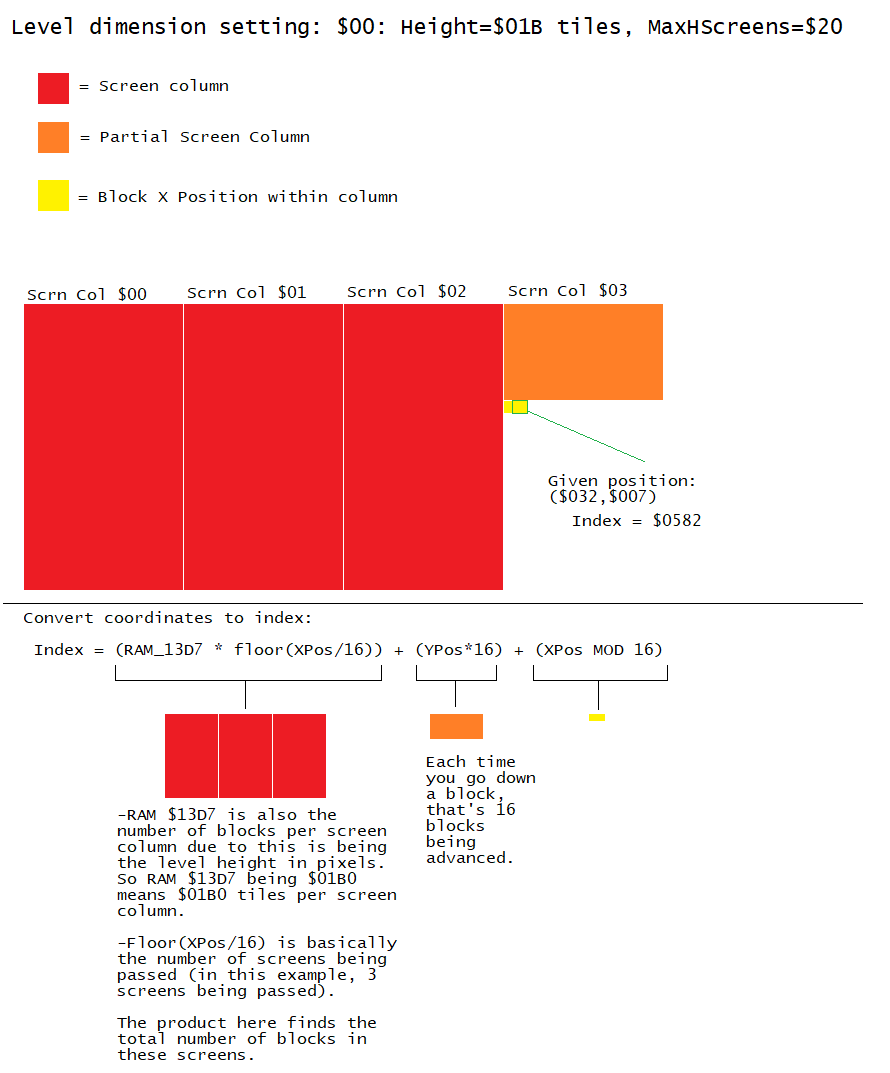
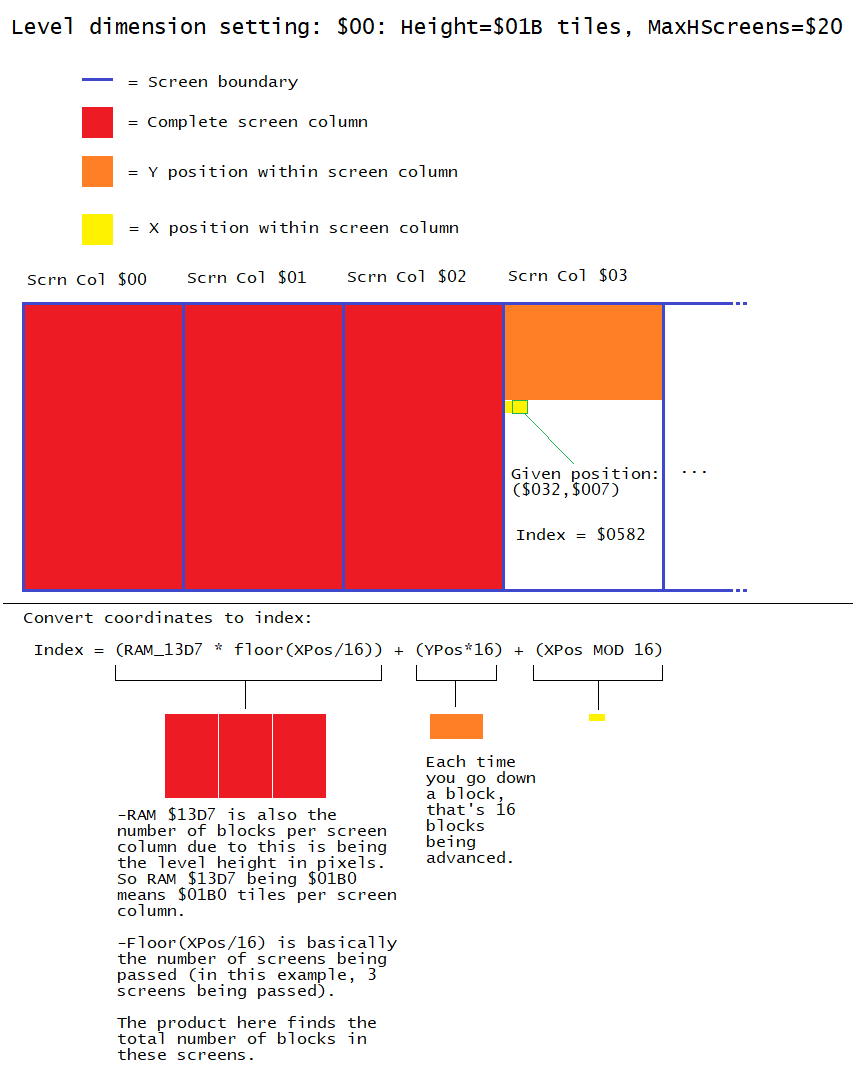
Add files via upload
-Added a note that the coordinate is displayed in LM.
-Improved the images a tiny bit.

diff --git a/C800DataFormat.html b/C800DataFormat.html
@@ -60,7 +60,7 @@ Each next byte in both tables means each next block in the level:<br><br>
 
 <h2>Horizontal levels</h2>
 <ol>
-<li>Within each screen column, each subsequent byte in memory starting at <kbd>$C800</kbd> is the next block in level from left to right and then next row from left to right again (row-major):<br>
+<li>Within each screen column, each subsequent byte in memory starting at <kbd>$C800</kbd> is the next block in level from left to right and then the next row downwards from left to right again (row-major):<br>
 <img src="Readme_files/SMW_RowMajorBlocksPerScreen.png"></li>
 <li>Once the <b>bottom</b> of the level is reached, the next screen column starting from the top-left and repeats the pattern. Note that this continues down the screen columns even if there
 are multiple rows of screen boundaries and not the next &ldquo;screen number&rdquo; shown in Lunar Magic:<br>
@@ -76,7 +76,7 @@ are multiple rows of screen boundaries and not the next &ldquo;screen number&rdq
 <li><kbd>YPos = floor((BlockIndex MOD BlocksPerScreenCol)/16)</kbd></li>
 </ul>
 
-<kbd>BlocksPerScreenCol</kbd> Is simply RAM address $13D7. This not only contains the level height in pixels, it is also the number of blocks
+<kbd>BlocksPerScreenCol</kbd> Is simply RAM address <kbd>$13D7</kbd> (if in a SA-1 ROM, that is <kbd>$13D7|!addr</kbd> &rightarrow; <kbd>$73D7</kbd>). This not only contains the level height in pixels, it is also the number of blocks
 per screen column.
 </li>
 </ol>
@@ -115,7 +115,7 @@ is a gap between the last byte of layer 1 and the first byte of layer 2 of a siz
 I placed the blocks in an increasing map16 order, with layer 1 blocks on the bottom of the last screen and layer 2 on the first screen on the top so you can see
 it easier when viewed on a debugger. Looking at memory editor we can see there is an unused gap:<br>
 <img src="Readme_files/GapBetweenLayer1And2Dbg.png"><br>
-Notice the gap ranging from <kbd>$7EE220</kbd> to <kbd>$7EE47F</kbd> (this also applies to its next bank, $7F (or $41 in SA-1)). This gap is 608 ($260 in hex) bytes long, this is also
+Notice the gap ranging from <kbd>$7EE220</kbd> to <kbd>$7EE47F</kbd> (this also applies to the other bank, as their data position corresponds)). This gap is 608 ($260 in hex) bytes long, this is also
 the number of blocks per screen column (16*38 = 608). This gap being the number of blocks per screen column bytes long always works when having any odd-number
 of H-screens for a layer 2 level. It's unknown why <a href="https://www.smwcentral.net/?p=profile&id=8251">Vitor Vilela</a>/<a href="https://www.smwcentral.net/?p=profile&id=9435">FuSoYa</a>
 they decided to position the layer 2 data table in such a position, probably due to the rounding of the number of screens downwards to an integer as odd numbers isn't
@@ -126,3 +126,5 @@ V-blank overflow by updating the graphics only when necessary at the moment the 
 tilemap and checking every block every frame). Thankfully, with UberasmTool, you can use the <kbd>load:</kbd> label feature so you can write to <kbd>$C800</kbd> table before
 the game process the block numbers to display their graphics. You can also safely change blocks during level mode after its loaded if you change the blocks that are outside the screen.</li>
 </ul>
+<h2>Final notes</h2>
+<a href="JS_C800Converter.html">I've included an HTML file</a> that uses javascript to compute the index and position much easier without pasting it in the calculator and manuelly setting up the variables.

diff --git a/JS_C800Converter.html b/JS_C800Converter.html
@@ -25,6 +25,9 @@ This is also useful for debugging when dealing with multiple blocks to be change
 <h2>Notes</h2>
 <ul>
 <li>Coordinates here are in units of blocks, not pixels (to move 1 block over, increments by $1, not $10).</li>
+<li>Lunar Magic displays the block coordinate in the level on the status bar on the bottom-left corner of the window when hovering a mouse within the level boundaries:<br>
+<img src="Readme_files/LM_BlockCoordDisplay.png"><br>
+However, before &ldquo;<kbd>Version 3.03 April 1, 2019</kbd>&rdquo;, the coordinates are displayed in <b>decimal</b> instead of hex.</li>
 <li>Protip: you can use ENTER when selecting the button (by after clicking it or TAB, not highlighting) for a rapid press for the +/- buttons.</li>
 <li>For layer 2 levels, the data layout is a repeat of layer 1's data, meaning the format is  the same &ldquo;row-major&rdquo; per screen column,
 then &ldquo;column-major&rdquo; for every screen column pattern as layer 1. You can get the layer 2 tile position by treating as if its layer 1, then
